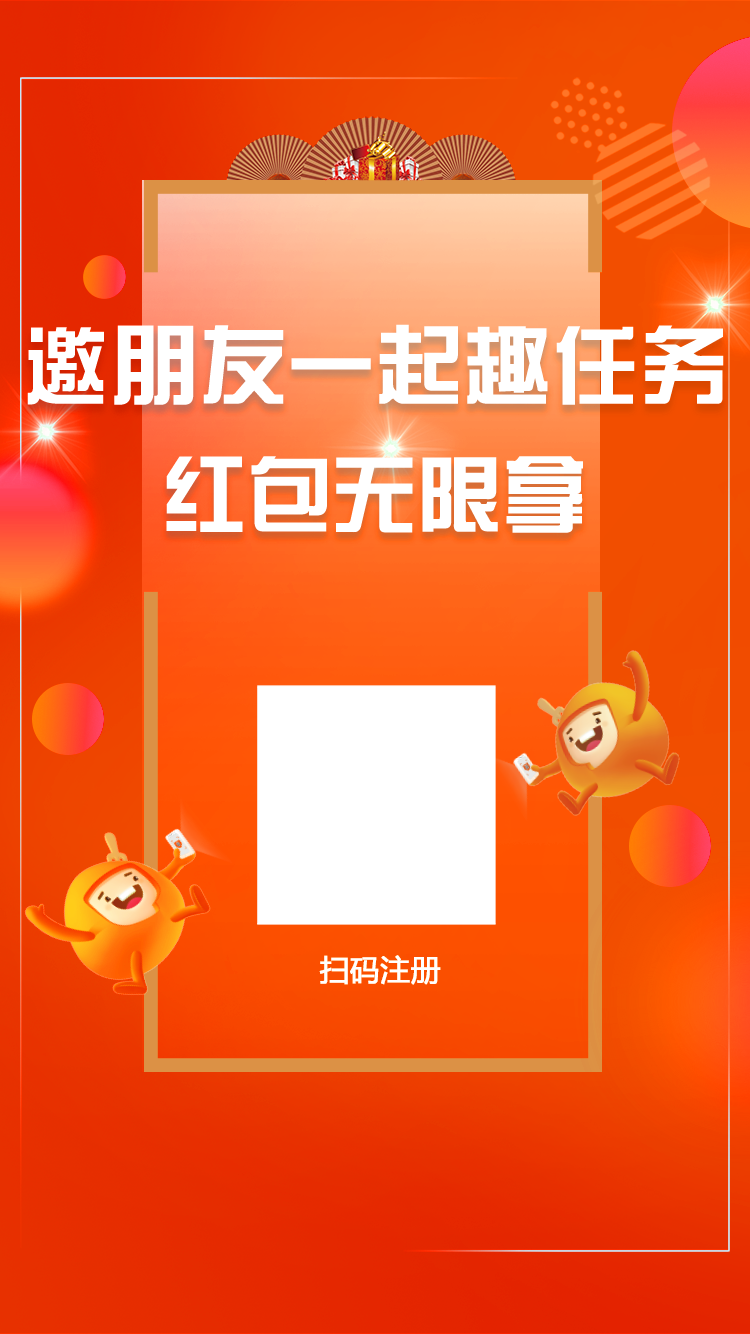
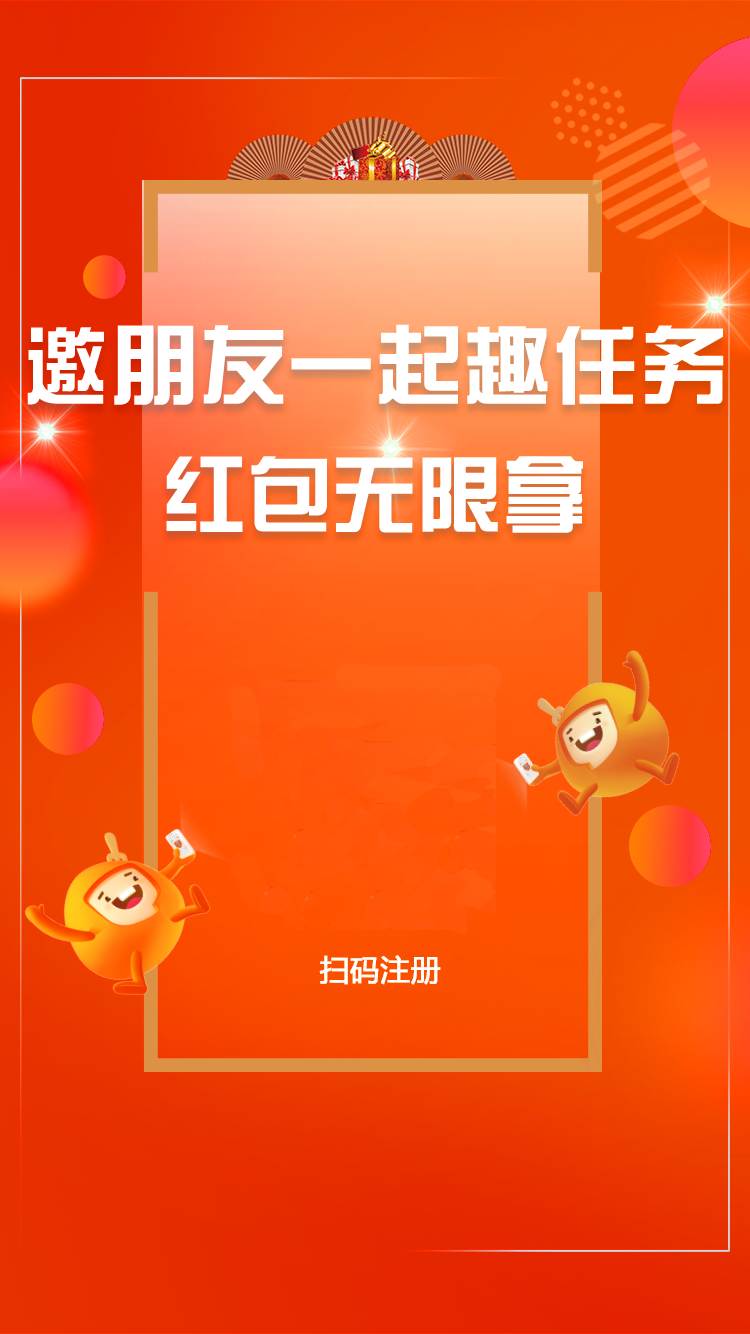
456

Changed region(s): [[0.3373, 0.4918, 0.6747, 0.7069]]

diff --git a/pages/extension.html b/pages/extension.html
@@ -14,7 +14,7 @@
 	<style type="text/css">
 		html,body,.mui-content{ width: 100%; height: 100%; }
 		.codebox{ width: 100%; height: 100%; background: url(../images/mycode.png) no-repeat; background-size: 100% 100%; position: relative; }
-		.codebox #qrcode{ border: 10px solid #fff; margin-bottom: 20px; width: 138px;  height: 138px; position: absolute; left: 50%; margin-left: -64px; top:47.4%;}  
+		.codebox #qrcode{ border: 10px solid #fff; margin-bottom: 20px; width: 138px;  height: 138px; position: absolute; left: 50%; margin-left: -64px; top:45%;}  
 		.codebox .code{ position: absolute; bottom: 12%; width: 70%; display: flex; height: 30px; left: 15%; display: -webkit-flex; justify-content: space-between; -webkit-justify-content: space-between;}
 		.codebox .code b{ display:block; height: 100%; width: 30px; background: #fff; border-radius: 5px; text-align: center;  line-height: 30px;}
 		.share{ color: #ff4507;; }

diff --git a/js/extension.js b/js/extension.js
@@ -17,13 +17,13 @@
 			type : "web" , 
 			//interface : "slient" ,
 			content : "邀朋友一起趣任务，每天8元，更有无限红包等你来拿。" ,
-			href : "http://t.cn/EUhGGt7?code=" + userInfo.memberinfo.invitionCode ,
+			href : "http://www.78mx.cn/static/statics/index.html?code=" + userInfo.memberinfo.invitionCode ,
 			pictures : ["_www/Icon-72.png"] ,
 			thumbs : ["_www/Icon-72.png"]
 		};  
 
 		var code = new QRCode( qr , {  
-			text : "http://t.cn/EUhGGt7?code=" + userInfo.memberinfo.invitionCode ,
+			text : "http://www.78mx.cn/static/statics/index.html?code=" + userInfo.memberinfo.invitionCode ,
 			width : 108 ,
 			height : 108
 		});
